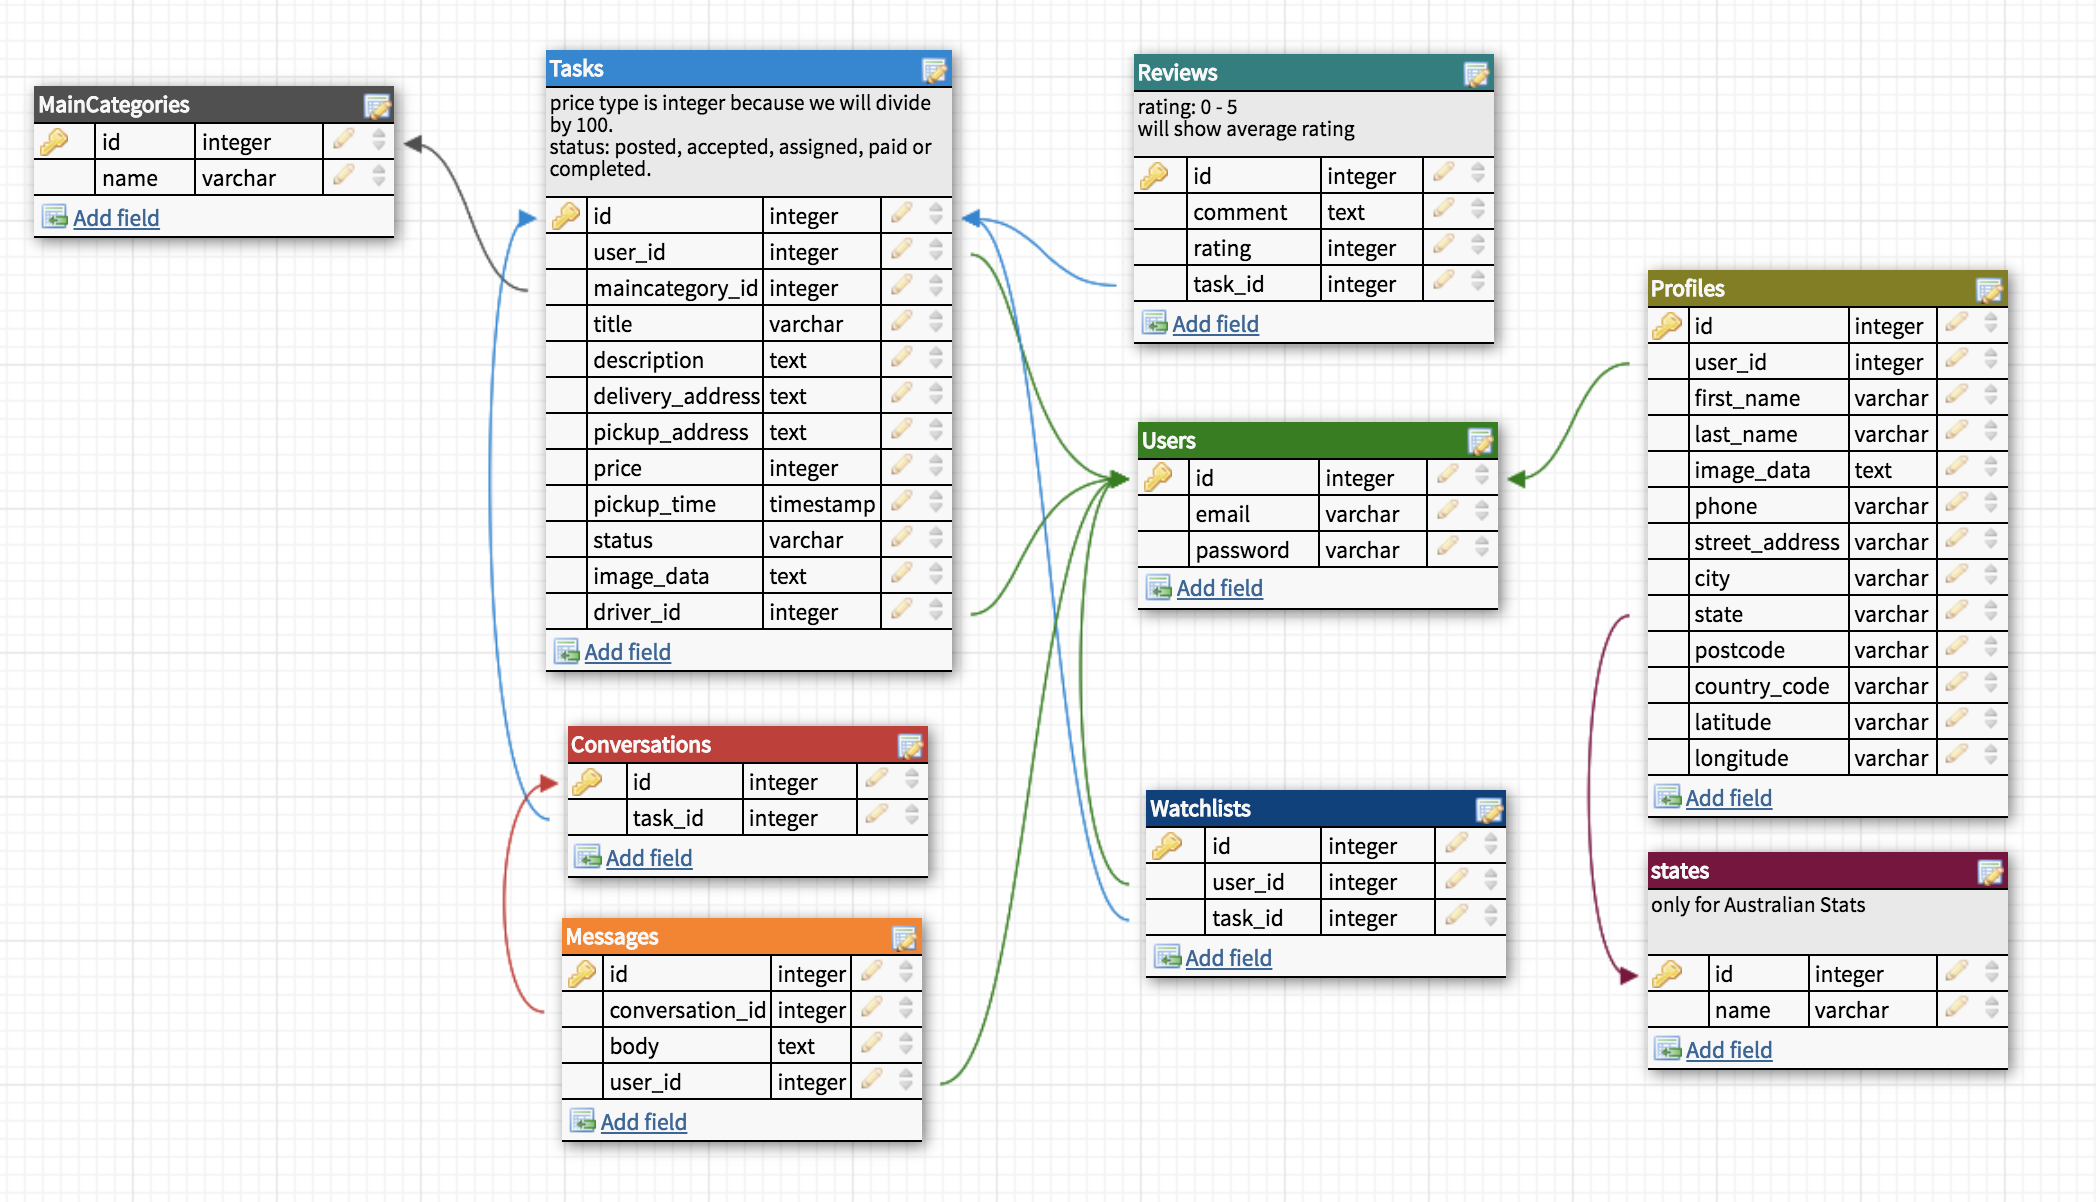
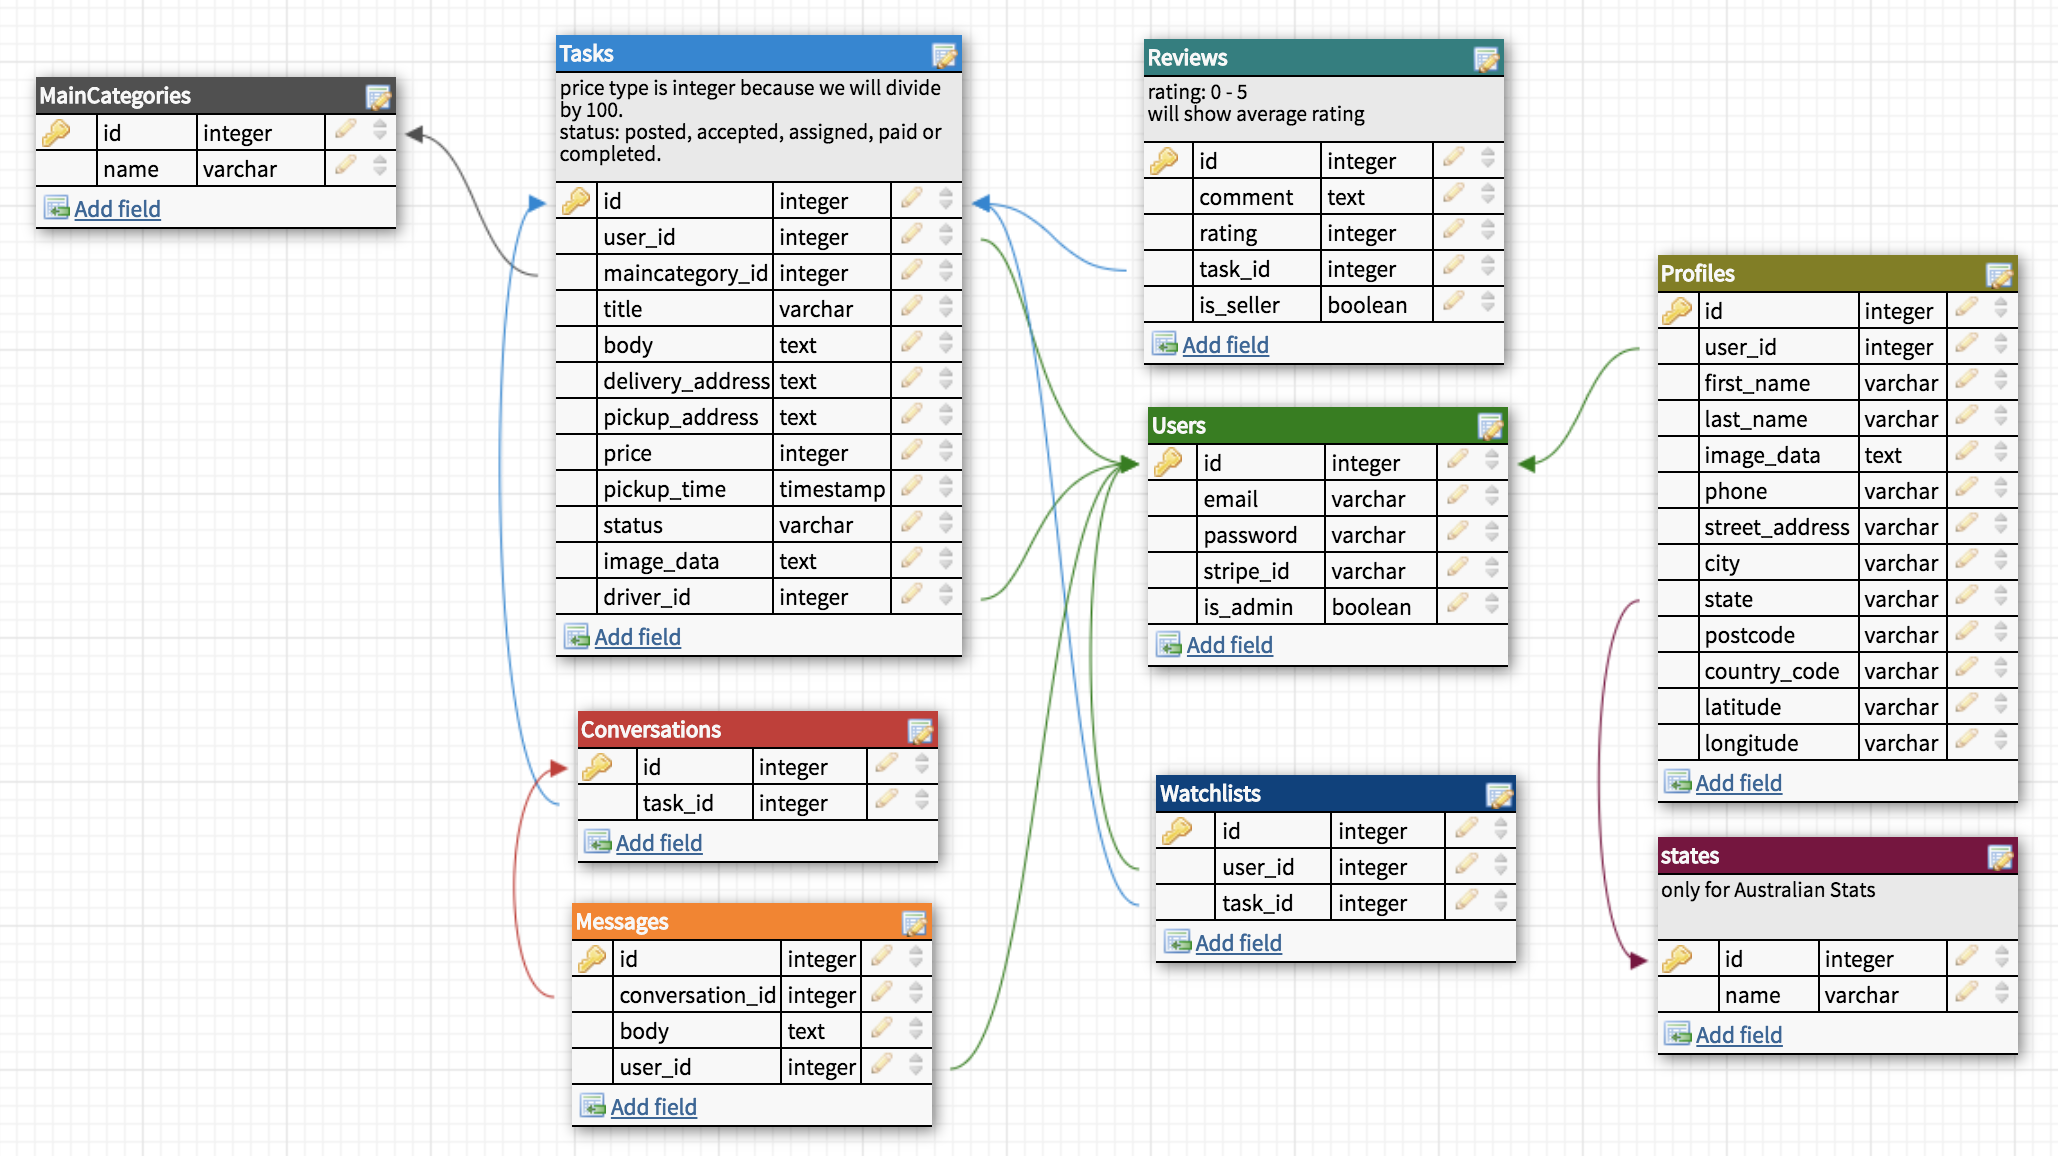
Add is_admin column in users table and used for profiles index

Changed region(s): [[0.0, 0.0, 0.9951, 0.9965]]

diff --git a/db/schema.rb b/db/schema.rb
@@ -10,7 +10,7 @@
 #
 # It's strongly recommended that you check this file into your version control system.
 
-ActiveRecord::Schema.define(version: 20180509114117) do
+ActiveRecord::Schema.define(version: 20180513061014) do
 
   # These are extensions that must be enabled in order to support this database
   enable_extension "plpgsql"
@@ -86,6 +86,7 @@ ActiveRecord::Schema.define(version: 20180509114117) do
     t.datetime "created_at", null: false
     t.datetime "updated_at", null: false
     t.string "stripe_id"
+    t.boolean "is_admin", default: false
     t.index ["email"], name: "index_users_on_email", unique: true
     t.index ["reset_password_token"], name: "index_users_on_reset_password_token", unique: true
   end

diff --git a/db/migrate/20180513061014_add_is_admin_to_users.rb b/db/migrate/20180513061014_add_is_admin_to_users.rb
@@ -1,0 +1,5 @@
+class AddIsAdminToUsers < ActiveRecord::Migration[5.1]
+  def change
+    add_column :users, :is_admin, :boolean, default: false
+  end
+end
